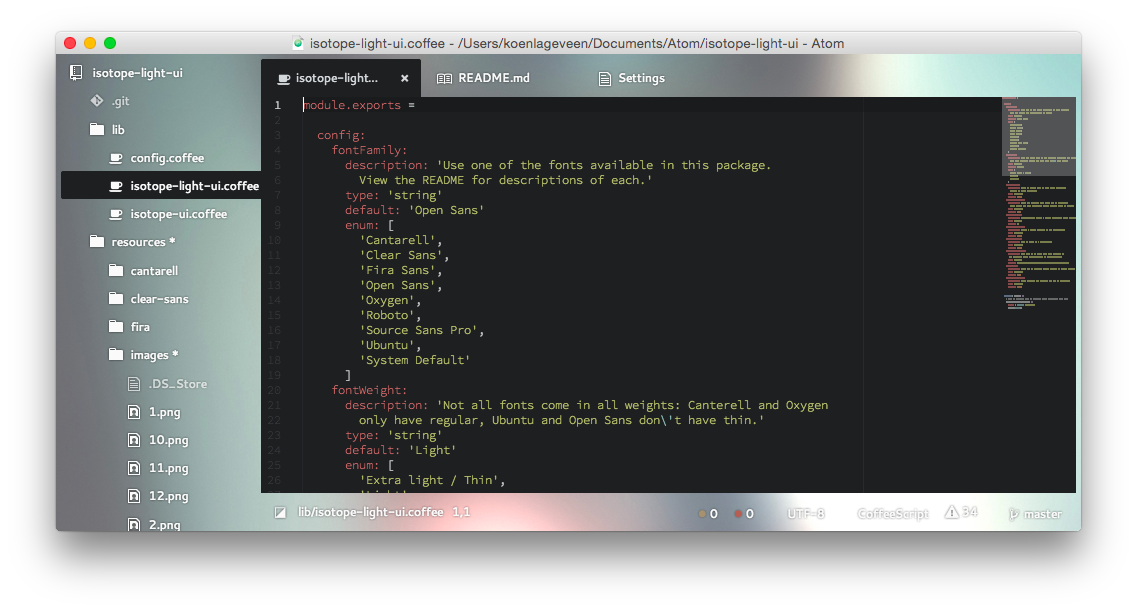
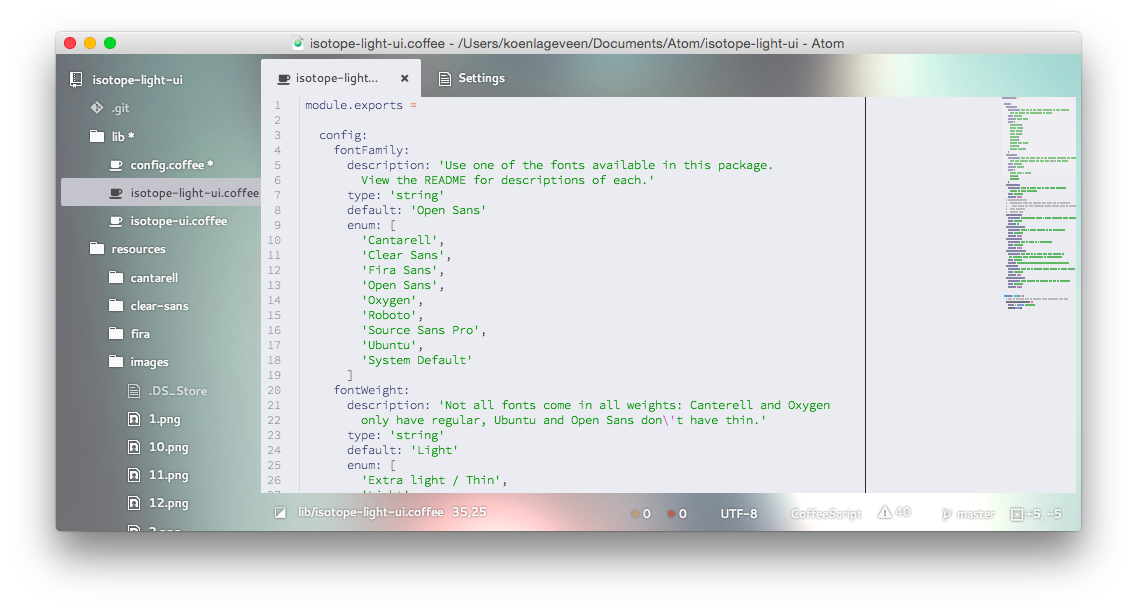
tree view highlight needs to be differen from dark

diff --git a/README.md b/README.md
@@ -32,7 +32,6 @@ Thanks to [@simurai](https://github.com/simurai) for the work on the [one-dark-u
 - Choose between a flat or gradient background
 - Or even use any image as background (from your computer or [the internets](http://hubblesite.org))
 - Make the layout take up less vertical space (e.g. for small screens)
-- Choose tree-view highlight color
 - Style the gutter, or not
 - Choose low contrast tooltips (or fancy colorful ones)
 - Change font-sizes for the entire UI (everything will scale to fit) by putting this in your stylesheet:
